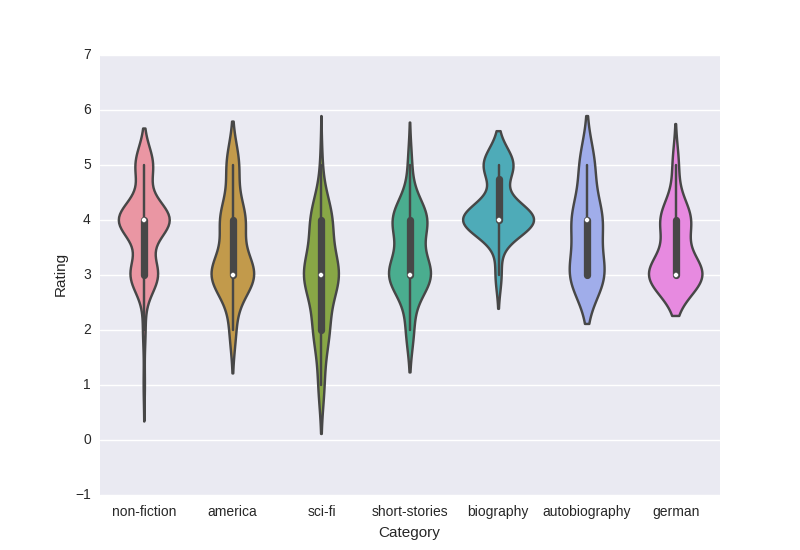
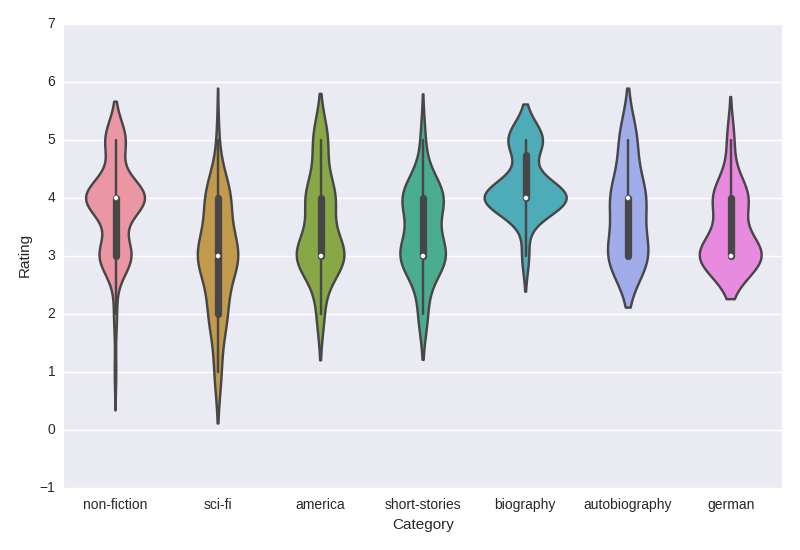
Adds another type of plot

diff --git a/plotPagesVsRating.py b/plotPagesVsRating.py
@@ -1,0 +1,39 @@
+from collections import defaultdict, Counter
+import pandas as pd
+import seaborn as sns
+import matplotlib.pyplot as plt
+import csv
+
+CATEGORIES = 7 # number of most crowded categories to plot
+
+if __name__ == '__main__':
+    shelves_ratings = defaultdict(list) # key: shelf-name, value: list of ratings
+    shelves_counter = Counter() # counts how many books on each shelf
+
+    fh = open('./goodreads_export.csv')
+    reader = csv.reader(fh)
+    header = reader.next()
+    position = header.index('My Rating')
+    position_pages = header.index('Number of Pages')
+
+    all_ratings = []
+    all_pages = []
+    for ll in reader:
+        review = ll[position].lower()
+        my_rating = int(ll[position])
+        if my_rating == 0:
+            # no rating
+            continue
+        try:
+            pages = int(ll[position_pages])
+        except ValueError:
+            # some page-numbers are missing
+            continue
+        all_ratings.append(my_rating)
+        all_pages.append(pages)
+    data = pd.DataFrame({"Ratings":all_ratings, "Pages":all_pages})
+    g = sns.jointplot("Ratings", "Pages", data=data, color="r", kind="reg")
+    plt.tight_layout()
+    plt.savefig("Pages_vs_Ratings.png")
+    plt.show()
+

diff --git a/plotRatingsVsBookshelves.py b/plotRatingsVsBookshelves.py
@@ -43,6 +43,7 @@ if __name__ == "__main__":
     full_table = pd.DataFrame({"Category":names, "Rating":ratings})
 
     sns.violinplot(x="Category", y="Rating", data=full_table)
+    plt.tight_layout()
     plt.savefig("categories_violinplot.png")
     plt.show()
 

diff --git a/README.md b/README.md
@@ -4,11 +4,11 @@ You can use it with your own data - go to [here](https://www.goodreads.com/revie
 
 # Scripts included:
 
-## plotWordCloud.py
+## plotPagesVsRating.py
 
-This one parses goodreads_export.csv, removes noisy words and creates a word-cloud of most commonly used words:
+Do I give longer books better scores? A minor tendency but nothing special (it's confounded by having just 5 possible numbers in ratings)
 
-![wordcloud](https://raw.github.com/philippbayer/my_goodreads_shelves/master/GR_wordcloud.png)
+![Number pages versus ratings](https://raw.github.com/philippbayer/my_goodreads_shelves/master/Pages_vs_Ratings.png)
 
 ## plotRatingsVsBookshelves.py
 
@@ -23,6 +23,14 @@ There is some *bad* SF out there.
 Parses the dates read for each book read, plots the distance between books read in days - shows you how quickly you hop from book to book.
 
 ![Distance in days between books](https://raw.github.com/philippbayer/my_goodreads_shelves/master/Histogram_Days_Read_Distance.png)
+
+
+## plotWordCloud.py
+
+This one removes noisy words and creates a word-cloud of most commonly used words in the reviews:
+
+![wordcloud](https://raw.github.com/philippbayer/my_goodreads_shelves/master/GR_wordcloud.png)
+
 
 Some other ideas for things to do with this:
 
